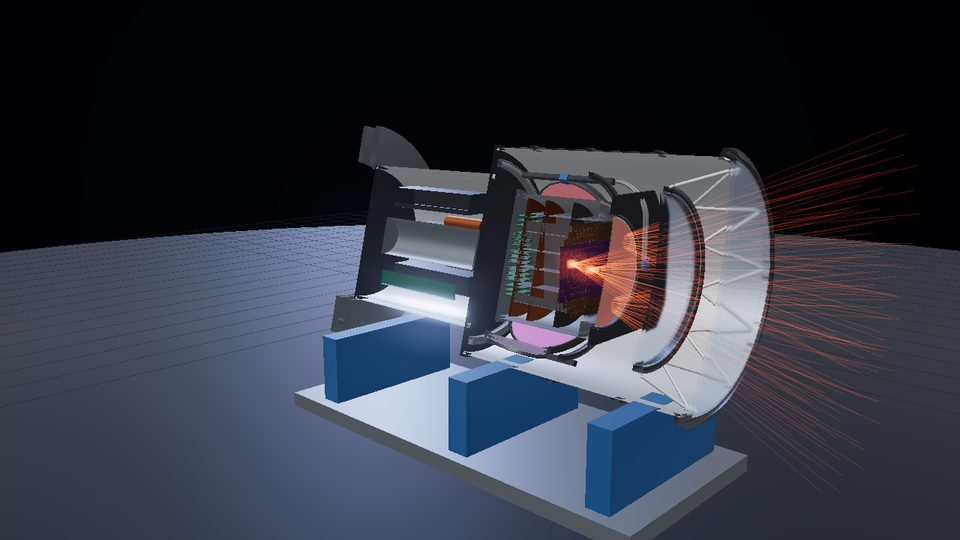
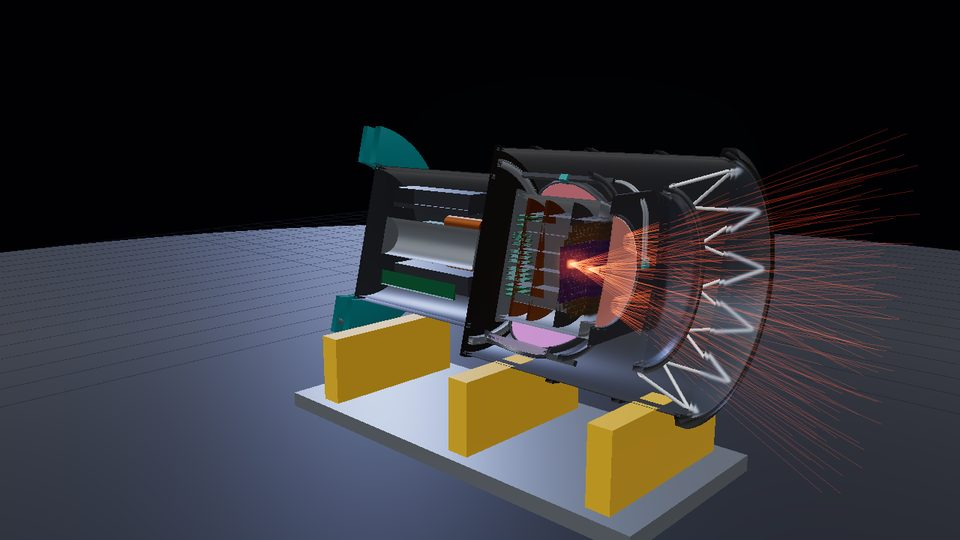
Photo-calibrated finishes: Rubin teal steel, bare top-end ring, black LSSTCam
- Palette sampled from on-site photos (src/scene/textures.ts); no photo
  pixels are used, patterns are generated in code
- TMA, piers, centre section, cell, spindle and camera rotator in Rubin teal
- Top-end ring in unpainted metal with perforated box-section webs
- Spider vanes in non-reflective dark grey
- LSSTCam body and trunk in black anodised aluminium with bolted joints
- Golden-green reflection on the lens AR coatings; yellow camera cart

Claude-Session: https://claude.ai/code/session_01R5LZwLGziz9zxAt7115BSq

Changed region(s): [[0.3125, 0.237, 0.8125, 0.9778]]

diff --git a/src/scene/lsstcam.ts b/src/scene/lsstcam.ts
@@ -7,6 +7,7 @@ import { Rubin, Band } from '../optics/trace';
 import { Surface } from '../optics/surfaces';
 import prescription from '../data/prescription.json';
 import { MAT, cutPlane } from './materials';
+import { cameraSkin } from './textures';
 import { annulusMesh, box, lathe, ocs, tube, cylinderBetween } from './util';
 import { buildFocalPlane, LAYOUT, RAFT_PITCH } from './focalplane';
 import type { Label } from './telescope';
@@ -149,7 +150,7 @@ export function buildLSSTCam(rubin: Rubin): LSSTCam {
   l1l2.add(lensL1, lensL2);
   // L1 toroidal ring with triangular section
   const zL1e = S.L1_entrance.zAt(0.785, 0);
-  l1l2.add(lathe([[0.785, zL1e - 0.02], [0.84, zL1e + 0.06], [0.785, zL1e + 0.12], [0.785, zL1e - 0.02]], 128, MAT.aluDark));
+  l1l2.add(lathe([[0.785, zL1e - 0.02], [0.84, zL1e + 0.06], [0.785, zL1e + 0.12], [0.785, zL1e - 0.02]], 128, MAT.cameraBlack));
   // L2 ring
   l1l2.add(tube(0.56, 0.6, zL2 - 0.01, zL2 + 0.07, MAT.aluDark, 96));
   // tubular space-frame cone between the rings
@@ -166,14 +167,28 @@ export function buildLSSTCam(rubin: Rubin): LSSTCam {
   // ---------------------------------------------------------------- camera body (skin + front flange + internal rings)
   const body = mk('body');
   const rB = CAM.rBody;
-  body.add(tube(rB - 0.02, rB, CAM.zBody0 + 0.08, CAM.zBodyTop, MAT.alu));
-  body.add(lathe([[0.8, CAM.zBody0 - 0.02], [0.86, CAM.zBody0 + 0.02], [0.86, CAM.zBody0 + 0.1], [0.8, CAM.zBody0 + 0.12]], 128, MAT.aluDark)); // front flange
-  for (const z of [4.05, 4.6, 5.1]) body.add(tube(rB, rB + 0.025, z - 0.03, z + 0.03, MAT.aluDark));
+  {
+    // black anodised skin with bolted joints (from photos), inner wall plain
+    const z0 = CAM.zBody0 + 0.08;
+    const len = CAM.zBodyTop - z0;
+    const skin = cameraSkin([0.06, 0.27, 0.5, 0.79, 0.95], 8);
+    const m = (MAT.cameraBlack as THREE.MeshStandardMaterial).clone();
+    m.clippingPlanes = [cutPlane]; // clone() copies planes, keep the shared one
+    m.map = skin.map;
+    m.bumpMap = skin.bumpMap;
+    m.bumpScale = 1.2;
+    const c = new THREE.Mesh(new THREE.CylinderGeometry(rB, rB, len, 160, 1, true), m);
+    c.position.y = z0 + len / 2;
+    body.add(c);
+    body.add(tube(rB - 0.02, rB - 0.005, z0, CAM.zBodyTop, MAT.aluDark));
+  }
+  body.add(lathe([[0.8, CAM.zBody0 - 0.02], [0.86, CAM.zBody0 + 0.02], [0.86, CAM.zBody0 + 0.1], [0.8, CAM.zBody0 + 0.12]], 128, MAT.cameraBlack)); // front flange
+  for (const z of [4.05, 4.6, 5.1]) body.add(tube(rB, rB + 0.025, z - 0.03, z + 0.03, MAT.cameraBlack));
   for (let k = 0; k < 8; k++) {
     const a = (k / 8) * Math.PI * 2 + Math.PI / 8;
-    body.add(box(0.825 * Math.cos(a), 0.825 * Math.sin(a), 4.75, 0.04, 0.04, 1.3, MAT.aluDark)); // longerons
+    void a; // (longerons are inside the skin on the real camera)
   }
-  body.add(annulusMesh(0.0, rB + 0.02, CAM.zBodyTop, MAT.aluDark, 0.06)); // back flange
+  body.add(annulusMesh(0.0, rB + 0.02, CAM.zBodyTop, MAT.cameraBlack, 0.06)); // back flange
   L('body', 'Camera body', 'Aluminium housing, 1.65 m wide. Holds the lenses, shutter and filter exchanger around the cryostat. Total camera mass: 3 t.', ocs(-0.7, -0.45, 4.75), body);
 
   // ---------------------------------------------------------------- shutter
@@ -321,7 +336,18 @@ export function buildLSSTCam(rubin: Rubin): LSSTCam {
 
   // ---------------------------------------------------------------- utility trunk + hexapod/rotator
   const trunk = mk('trunk');
-  trunk.add(tube(0.57, 0.6, CAM.zBodyTop, CAM.zTrunkTop - 0.28, MAT.alu, 72));
+  {
+    const len = CAM.zTrunkTop - 0.28 - CAM.zBodyTop;
+    const skin = cameraSkin([0.08, 0.5, 0.92], 6);
+    const m = (MAT.cameraBlack as THREE.MeshStandardMaterial).clone();
+    m.clippingPlanes = [cutPlane]; // clone() copies planes, keep the shared one
+    m.map = skin.map;
+    m.bumpMap = skin.bumpMap;
+    const c = new THREE.Mesh(new THREE.CylinderGeometry(0.6, 0.6, len, 96, 1, true), m);
+    c.position.y = CAM.zBodyTop + len / 2;
+    trunk.add(c);
+    trunk.add(tube(0.57, 0.595, CAM.zBodyTop, CAM.zTrunkTop - 0.28, MAT.aluDark, 72));
+  }
   trunk.add(annulusMesh(0, 0.6, CAM.zTrunkTop - 0.28, MAT.aluDark, 0.04, 72));
   for (let k = 0; k < 6; k++) {
     const a = (k / 6) * Math.PI * 2;
@@ -334,8 +360,9 @@ export function buildLSSTCam(rubin: Rubin): LSSTCam {
   }
   L('trunk', 'Utility trunk', 'Refrigeration heat exchangers, vacuum pumps and readout electronics. Fits through the 1.8 m hole in the secondary mirror.', ocs(0.6, 0, 6.3), trunk);
   const hex = mk('hexapod');
-  hex.add(tube(0.62, 0.95, CAM.zTrunkTop - 0.25, CAM.zTrunkTop - 0.17, MAT.steel, 96));
-  hex.add(tube(0.62, 0.95, CAM.zTrunkTop - 0.06, CAM.zTrunkTop, MAT.steel, 96));
+  // camera rotator + hexapod: Rubin teal (photos)
+  hex.add(tube(0.62, 0.95, CAM.zTrunkTop - 0.25, CAM.zTrunkTop - 0.17, MAT.paintCut, 96));
+  hex.add(tube(0.62, 0.95, CAM.zTrunkTop - 0.06, CAM.zTrunkTop, MAT.paintCut, 96));
   for (let k = 0; k < 6; k++) {
     const a0 = (k / 6) * Math.PI * 2 + (k % 2 ? 0.2 : -0.2);
     const a1 = (k / 6) * Math.PI * 2 + (k % 2 ? -0.35 : 0.35);

diff --git a/src/scene/textures.ts b/src/scene/textures.ts
@@ -1,0 +1,142 @@
+// Procedural textures approximating the real finishes seen in on-site photos
+// (no photo pixels are used: colours were sampled, patterns are drawn in code).
+import * as THREE from 'three';
+
+/** Palette sampled from photos of the summit, the TMA and LSSTCam (albedo-corrected by eye). */
+export const PALETTE = {
+  rubinTeal: '#2e7f82', // TMA, top-end piers, camera rotator ring, dome steel, walkways
+  bareMetal: '#c9c6bb', // top-end ring (unpainted)
+  spiderGrey: '#2a2b2d', // spider vanes: non-reflective dark grey
+  cameraBlack: '#232220', // LSSTCam body, black anodised
+  coverGrey: '#5f5b57', // L1 protective cover, brushed dark metal
+  cartYellow: '#c99a17', // camera handling cart
+  domeCladding: '#b8b2aa', // dome upper enclosure panels
+  buildingWhite: '#eeeae7', // service building / dome drum
+  baffleBlack: '#121314',
+};
+
+const cache = new Map<string, THREE.Texture>();
+function canvasTex(key: string, w: number, h: number, draw: (g: CanvasRenderingContext2D, w: number, h: number) => void, srgb = true) {
+  if (cache.has(key)) return cache.get(key)!;
+  const c = document.createElement('canvas');
+  c.width = w;
+  c.height = h;
+  draw(c.getContext('2d')!, w, h);
+  const t = new THREE.CanvasTexture(c);
+  t.wrapS = t.wrapT = THREE.RepeatWrapping;
+  t.anisotropy = 8;
+  if (srgb) t.colorSpace = THREE.SRGBColorSpace;
+  cache.set(key, t);
+  return t;
+}
+
+function rng(seed: number) {
+  return () => {
+    seed = (seed * 16807) % 2147483647;
+    return seed / 2147483647;
+  };
+}
+
+/** Fine speckle used as a bump map for painted steel (orange-peel). */
+export function paintBump() {
+  return canvasTex('paintBump', 256, 256, (g, w, h) => {
+    const r = rng(11);
+    const img = g.createImageData(w, h);
+    for (let i = 0; i < w * h; i++) {
+      const v = 120 + r() * 20;
+      img.data.set([v, v, v, 255], i * 4);
+    }
+    g.putImageData(img, 0, 0);
+  }, false);
+}
+
+/** Brushed-metal roughness streaks (top-end ring). */
+export function brushedRoughness() {
+  return canvasTex('brushed', 512, 64, (g, w, h) => {
+    g.fillStyle = '#6a6a6a';
+    g.fillRect(0, 0, w, h);
+    const r = rng(5);
+    for (let i = 0; i < 900; i++) {
+      const y = r() * h;
+      const v = 80 + r() * 70;
+      g.strokeStyle = `rgb(${v},${v},${v})`;
+      g.globalAlpha = 0.35;
+      g.beginPath();
+      g.moveTo(r() * w, y);
+      g.lineTo(r() * w + 200, y);
+      g.stroke();
+    }
+  }, false);
+}
+
+/**
+ * Black anodised camera skin: circumferential joints with bolt rows and vertical panel seams.
+ * u wraps around the body, v runs along the optical axis. `rings` are v positions (0..1) of joints.
+ */
+export function cameraSkin(rings: number[], seams = 8) {
+  const key = 'camSkin' + rings.join(',') + seams;
+  const W = 2048;
+  const H = 512;
+  const color = canvasTex(key, W, H, (g) => {
+    g.fillStyle = PALETTE.cameraBlack;
+    g.fillRect(0, 0, W, H);
+    const r = rng(3);
+    // subtle anodising mottling
+    for (let i = 0; i < 2500; i++) {
+      g.fillStyle = `rgba(255,255,255,${0.008 + r() * 0.01})`;
+      g.fillRect(r() * W, r() * H, 2 + r() * 30, 1 + r() * 3);
+    }
+    drawJoints(g, W, H, rings, seams, false);
+  });
+  const bump = canvasTex(key + 'b', W, H, (g) => {
+    g.fillStyle = '#808080';
+    g.fillRect(0, 0, W, H);
+    drawJoints(g, W, H, rings, seams, true);
+  }, false);
+  return { map: color, bumpMap: bump };
+}
+
+function drawJoints(g: CanvasRenderingContext2D, W: number, H: number, rings: number[], seams: number, bump: boolean) {
+  for (const v of rings) {
+    const y = (1 - v) * H;
+    g.fillStyle = bump ? '#303030' : 'rgba(0,0,0,0.85)';
+    g.fillRect(0, y - 1.5, W, 3);
+    g.fillStyle = bump ? '#b0b0b0' : 'rgba(255,255,255,0.10)';
+    g.fillRect(0, y + 1.5, W, 1);
+    // bolt rows just either side of the joint
+    for (const dy of [-7, 7]) {
+      for (let x = 6; x < W; x += 16) {
+        g.fillStyle = bump ? '#d0d0d0' : 'rgba(170,170,165,0.55)';
+        g.beginPath();
+        g.arc(x, y + dy, 2.1, 0, Math.PI * 2);
+        g.fill();
+      }
+    }
+  }
+  for (let k = 0; k < seams; k++) {
+    const x = ((k + 0.5) / seams) * W;
+    g.fillStyle = bump ? '#404040' : 'rgba(0,0,0,0.7)';
+    g.fillRect(x - 1, 0, 2, H);
+    for (let y = 8; y < H; y += 18) {
+      g.fillStyle = bump ? '#c8c8c8' : 'rgba(170,170,165,0.45)';
+      g.beginPath();
+      g.arc(x + 6, y, 1.8, 0, Math.PI * 2);
+      g.fill();
+    }
+  }
+}
+
+/** Alpha map with a row of round lightening holes (box-section webs of the top-end ring). */
+export function perforatedAlpha(holes: number, holeFrac = 0.62) {
+  return canvasTex('perf' + holes + holeFrac, 2048, 128, (g, w, h) => {
+    g.fillStyle = '#fff';
+    g.fillRect(0, 0, w, h);
+    g.fillStyle = '#000';
+    const pitch = w / holes;
+    for (let i = 0; i < holes; i++) {
+      g.beginPath();
+      g.arc((i + 0.5) * pitch, h / 2, (h * holeFrac) / 2, 0, Math.PI * 2);
+      g.fill();
+    }
+  }, false);
+}

diff --git a/src/scene/telescope.ts b/src/scene/telescope.ts
@@ -7,6 +7,7 @@ import { Rubin, SPIDER } from '../optics/trace';
 import { MAT } from './materials';
 import { annulusMesh, beam, box, lathe, ocs, sagProfile, tube, cylinderBetween } from './util';
 import { buildLSSTCam } from './lsstcam';
+import { perforatedAlpha } from './textures';
 
 export interface Label {
   id: string;
@@ -190,9 +191,28 @@ export function buildTelescope(rubin: Rubin): Telescope {
   const ter = new THREE.Group();
   const up = BF.find((b) => b.name === 'UpperTopEnd')!;
   const lo = BF.find((b) => b.name === 'LowerTopEnd')!;
-  ter.add(annulusMesh(up.inner, up.outer, up.z, MAT.black, 0.04));
-  ter.add(annulusMesh(lo.inner, lo.outer, lo.z, MAT.black, 0.04));
-  ter.add(tube(4.86, 4.9, lo.z, up.z, MAT.paint));
+  // flanges = the two batoid baffles; the ring itself is unpainted metal (photos)
+  ter.add(annulusMesh(up.inner, up.outer, up.z, MAT.bare, 0.04));
+  ter.add(annulusMesh(lo.inner, lo.outer, lo.z, MAT.bare, 0.04));
+  // box-section webs perforated with round lightening holes
+  const webH = up.z - lo.z - 0.04;
+  const zMid = (up.z + lo.z) / 2;
+  for (const [rw, holes] of [[4.47, 36], [4.88, 40]] as [number, number][]) {
+    const m = MAT.bare.clone();
+    m.alphaMap = perforatedAlpha(holes, 0.6);
+    m.alphaTest = 0.5;
+    m.side = THREE.DoubleSide;
+    const web = new THREE.Mesh(new THREE.CylinderGeometry(rw, rw, webH, 256, 1, true), m);
+    web.position.y = zMid;
+    ter.add(web);
+  }
+  // radial diaphragms between the webs
+  for (let k = 0; k < 36; k++) {
+    const a = ((k + 0.5) / 36) * Math.PI * 2;
+    const d = box(4.675 * Math.cos(a), 4.675 * Math.sin(a), zMid, 0.4, 0.015, webH, MAT.bare);
+    d.rotation.y = a;
+    ter.add(d);
+  }
   ota.add(ter);
   groups.topEnd = ter;
   L('ter', 'Top-end ring', 'Steel I-beam ring 9.8 m across. Its two flanges double as light baffles at the top of the telescope.', ocs(0, 4.9, 8.06));
@@ -203,7 +223,7 @@ export function buildTelescope(rubin: Rubin): Telescope {
   spider.add(tube(1.05, 1.1, 6.95, zCap, MAT.paint, 64));
   spider.add(annulusMesh(0, 1.1, zCap, MAT.paint, 0.05, 64));
   for (const r of SPIDER.rects.slice(0, 4)) {
-    const m = box(0, 0, SPIDER.z, r.w, r.h, 0.06, MAT.black);
+    const m = box(0, 0, SPIDER.z, r.w, r.h, 0.06, MAT.spiderGrey);
     m.rotation.y = r.th; // OCS rotation about z == rotation about Y (sign flip of y absorbed)
     spider.add(m);
   }
@@ -219,7 +239,7 @@ export function buildTelescope(rubin: Rubin): Telescope {
     for (const sg of [-1, 1]) {
       const a = ocs(fx + sg * s0 * ux, fy + sg * s0 * uy, SPIDER.z - 0.22);
       const b = ocs(fx + sg * s1 * ux, fy + sg * s1 * uy, SPIDER.z - 0.22);
-      spider.add(beam(a, b, 0.05, 0.44, MAT.black));
+      spider.add(beam(a, b, 0.05, 0.44, MAT.spiderGrey));
     }
   }
   ota.add(spider);

diff --git a/src/scene/materials.ts b/src/scene/materials.ts
@@ -1,4 +1,8 @@
 import * as THREE from 'three';
+import { PALETTE, paintBump, brushedRoughness } from './textures';
+
+const bump = paintBump();
+bump.repeat.set(24, 24);
 
 /** Shared cutaway plane (world space). Updated every frame to face the viewer. */
 export const cutPlane = new THREE.Plane(new THREE.Vector3(1, 0, 0), 1e6);
@@ -44,8 +48,9 @@ export const MAT = {
     thickness: 0.06,
     transparent: true,
     opacity: 1,
-    envMapIntensity: 0.25,
-    specularIntensity: 0.25,
+    envMapIntensity: 0.6,
+    specularIntensity: 0.35,
+    specularColor: new THREE.Color('#d8c060'),
     side: THREE.DoubleSide,
     clippingPlanes: cut,
   }),
@@ -62,12 +67,19 @@ export const MAT = {
     side: THREE.DoubleSide,
   }),
   // Painted TMA steel
-  paint: std({ color: 0xbfc3c7, metalness: 0.15, roughness: 0.55 }),
-  paintCut: std({ color: 0xbfc3c7, metalness: 0.15, roughness: 0.55 }, true),
-  paintBlue: std({ color: 0x2f5d8a, metalness: 0.2, roughness: 0.5 }),
-  blueCut: std({ color: 0x2f5d8a, metalness: 0.2, roughness: 0.5 }, true),
+  // Rubin teal: TMA, piers, centre section, cell, camera rotator (all steel is this colour on site)
+  paint: std({ color: PALETTE.rubinTeal, metalness: 0.25, roughness: 0.5, bumpMap: bump, bumpScale: 0.6 }),
+  paintCut: std({ color: PALETTE.rubinTeal, metalness: 0.25, roughness: 0.5, bumpMap: bump, bumpScale: 0.6 }, true),
+  // unpainted top-end ring
+  bare: std({ color: PALETTE.bareMetal, metalness: 0.6, roughness: 0.55, roughnessMap: brushedRoughness() }),
+  // spider vanes: non-reflective dark grey
+  spiderGrey: std({ color: PALETTE.spiderGrey, metalness: 0.1, roughness: 0.92 }),
+  cameraBlack: std({ color: PALETTE.cameraBlack, metalness: 0.45, roughness: 0.48 }, true),
+  cartYellow: std({ color: PALETTE.cartYellow, metalness: 0.2, roughness: 0.5 }),
+  paintBlue: std({ color: PALETTE.rubinTeal, metalness: 0.25, roughness: 0.5 }),
+  blueCut: std({ color: PALETTE.rubinTeal, metalness: 0.25, roughness: 0.5 }, true),
   // Black anodised baffles
-  black: std({ color: 0x0d0e10, metalness: 0.3, roughness: 0.7, side: THREE.DoubleSide }),
+  black: std({ color: PALETTE.baffleBlack, metalness: 0.3, roughness: 0.7, side: THREE.DoubleSide }),
   blackCut: std({ color: 0x0d0e10, metalness: 0.3, roughness: 0.7 }, true),
   // Camera aluminium skin
   alu: std({ color: 0xc9ccd0, metalness: 0.6, roughness: 0.42 }, true),

diff --git a/src/apps/telescope.ts b/src/apps/telescope.ts
@@ -183,7 +183,7 @@ function retrace() {
 // ---------------------------------------------------------------- post-processing
 const composer = new EffectComposer(renderer);
 composer.addPass(new RenderPass(scene, camera));
-const bloom = new UnrealBloomPass(new THREE.Vector2(window.innerWidth, window.innerHeight), state.bloom, 0.3, 1.05);
+const bloom = new UnrealBloomPass(new THREE.Vector2(window.innerWidth, window.innerHeight), state.bloom, 0.3, 1.3);
 composer.addPass(bloom);
 composer.addPass(new OutputPass());
 

diff --git a/src/apps/camera.ts b/src/apps/camera.ts
@@ -80,7 +80,7 @@ root.add(cam.group);
 
 // cart (schematic)
 {
-  const m = MAT.paintBlue;
+  const m = MAT.cartYellow;
   for (const x of [-1.3, 0.2, 1.4]) {
     const saddle = new THREE.Mesh(new THREE.BoxGeometry(0.18, HEIGHT - 0.78, 1.3), m);
     saddle.position.set(x, (HEIGHT - 0.78) / 2, 0);
